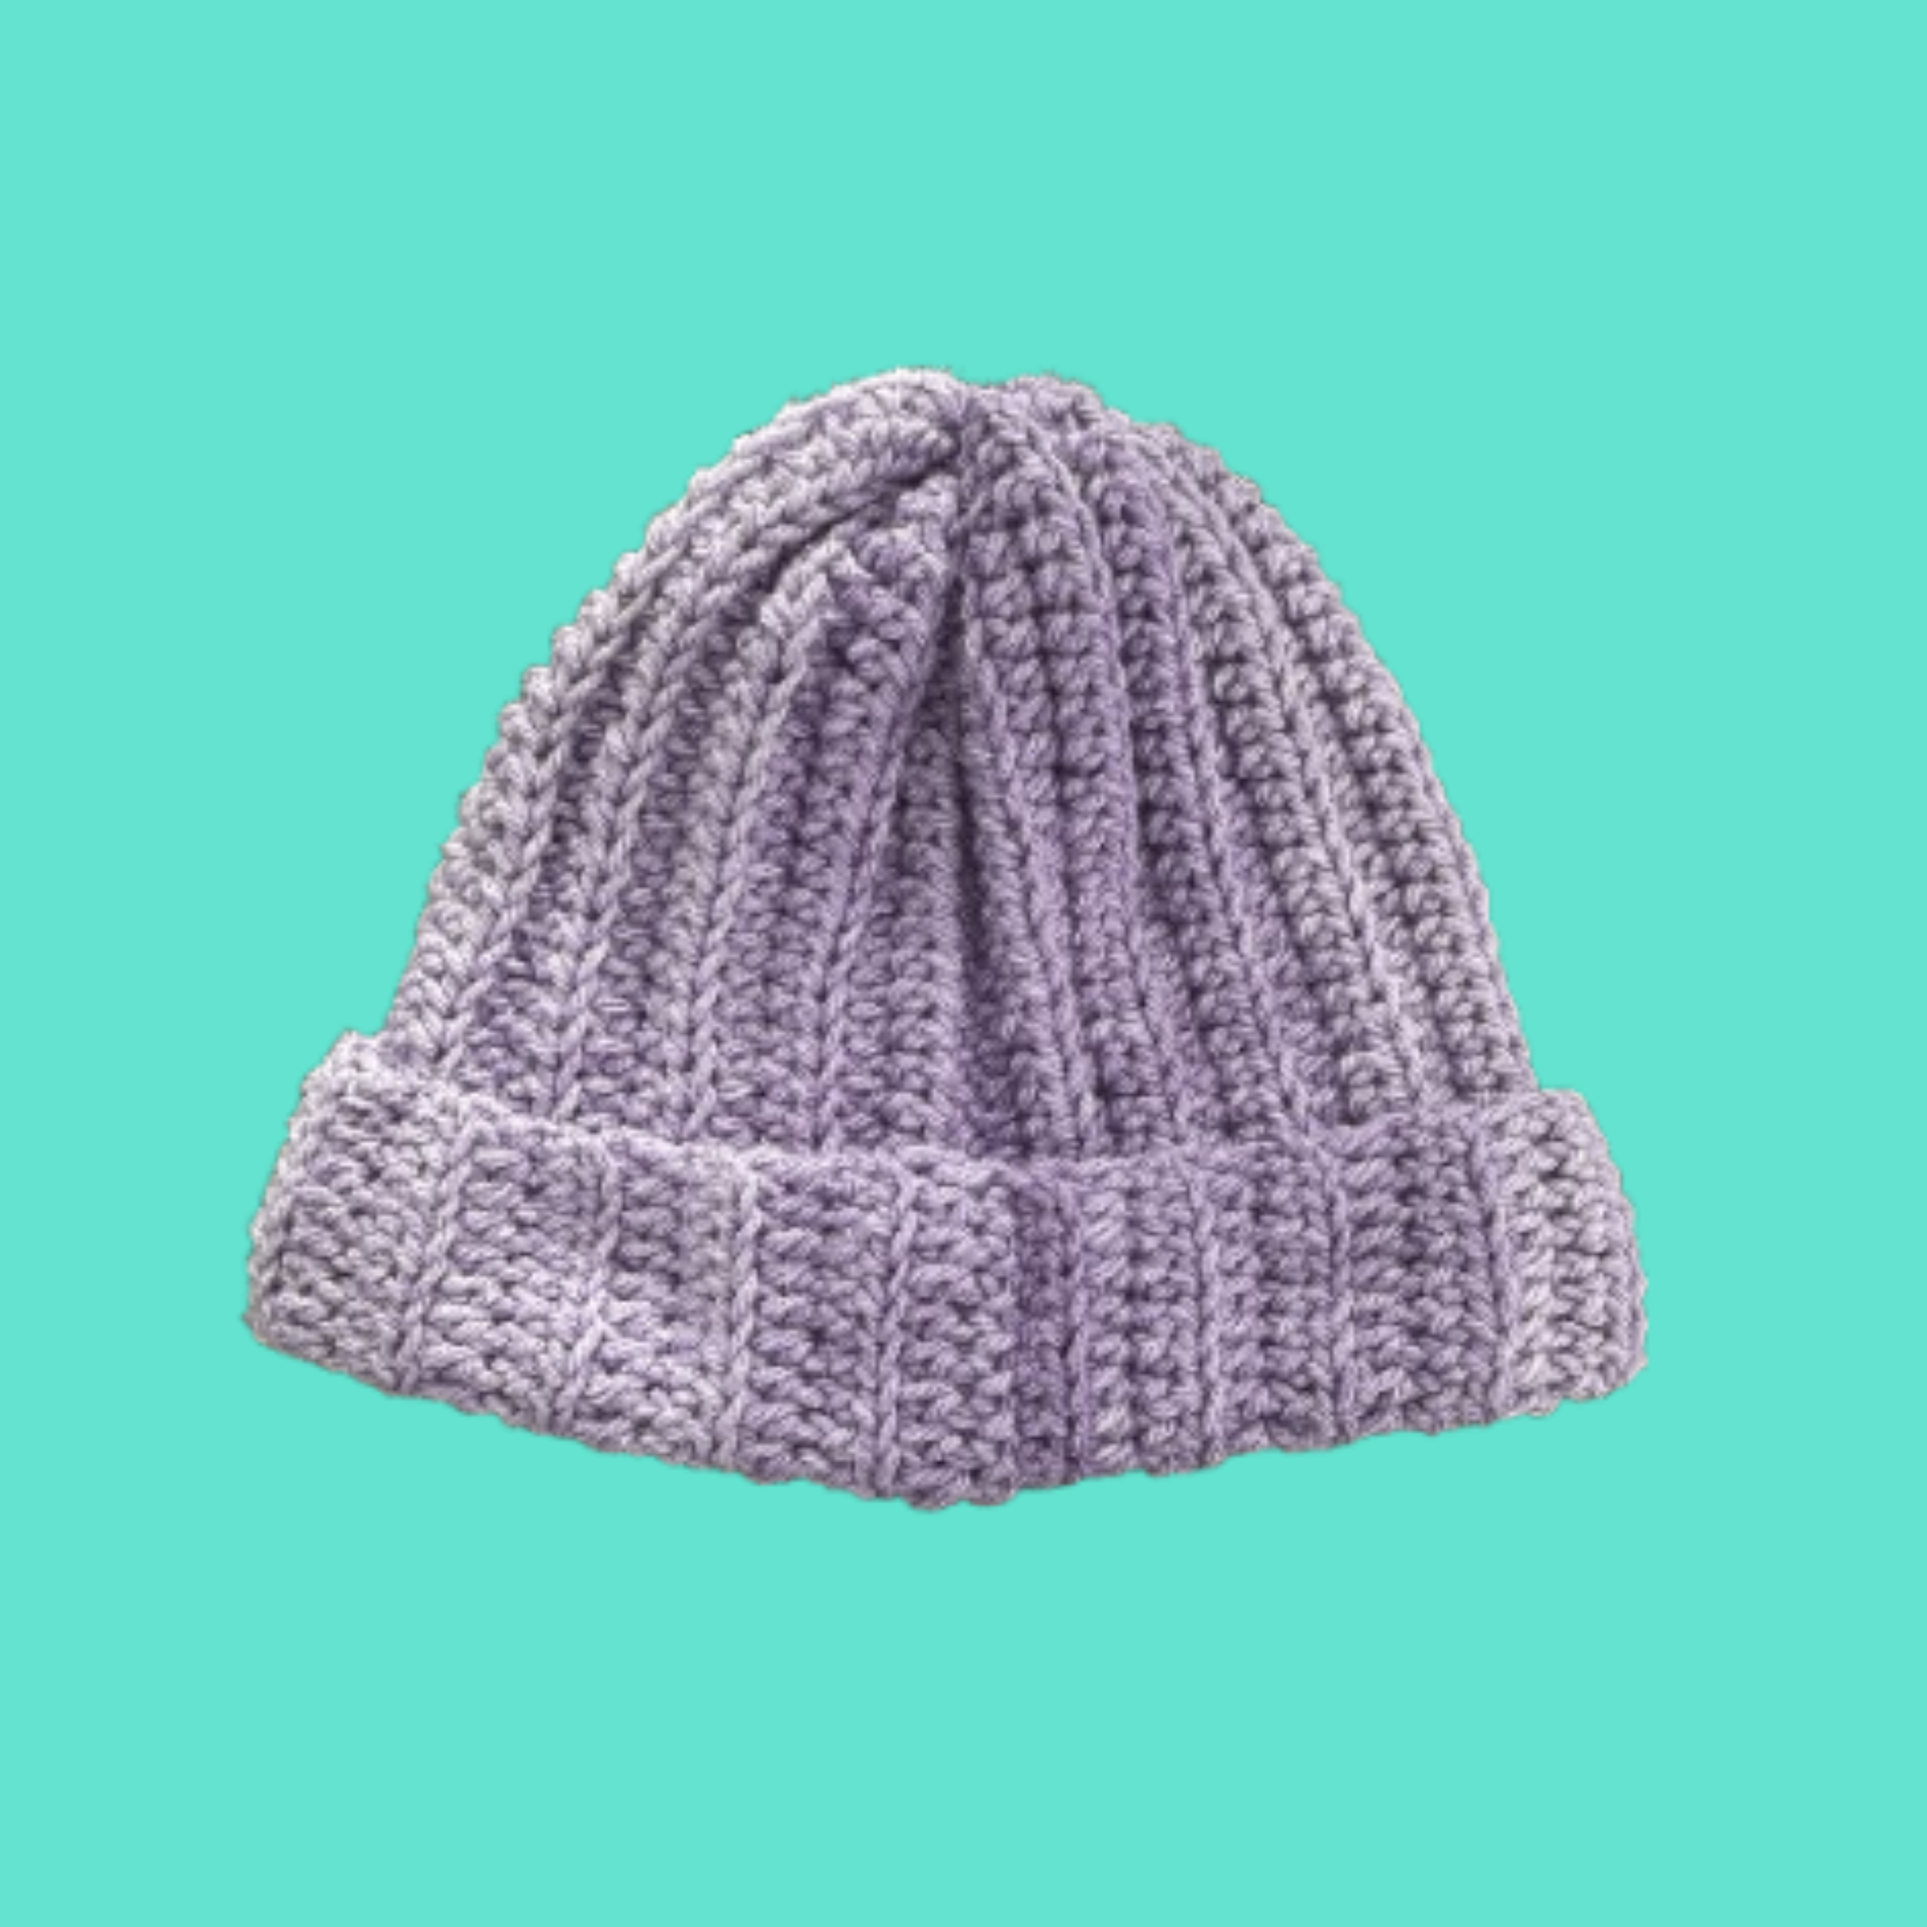
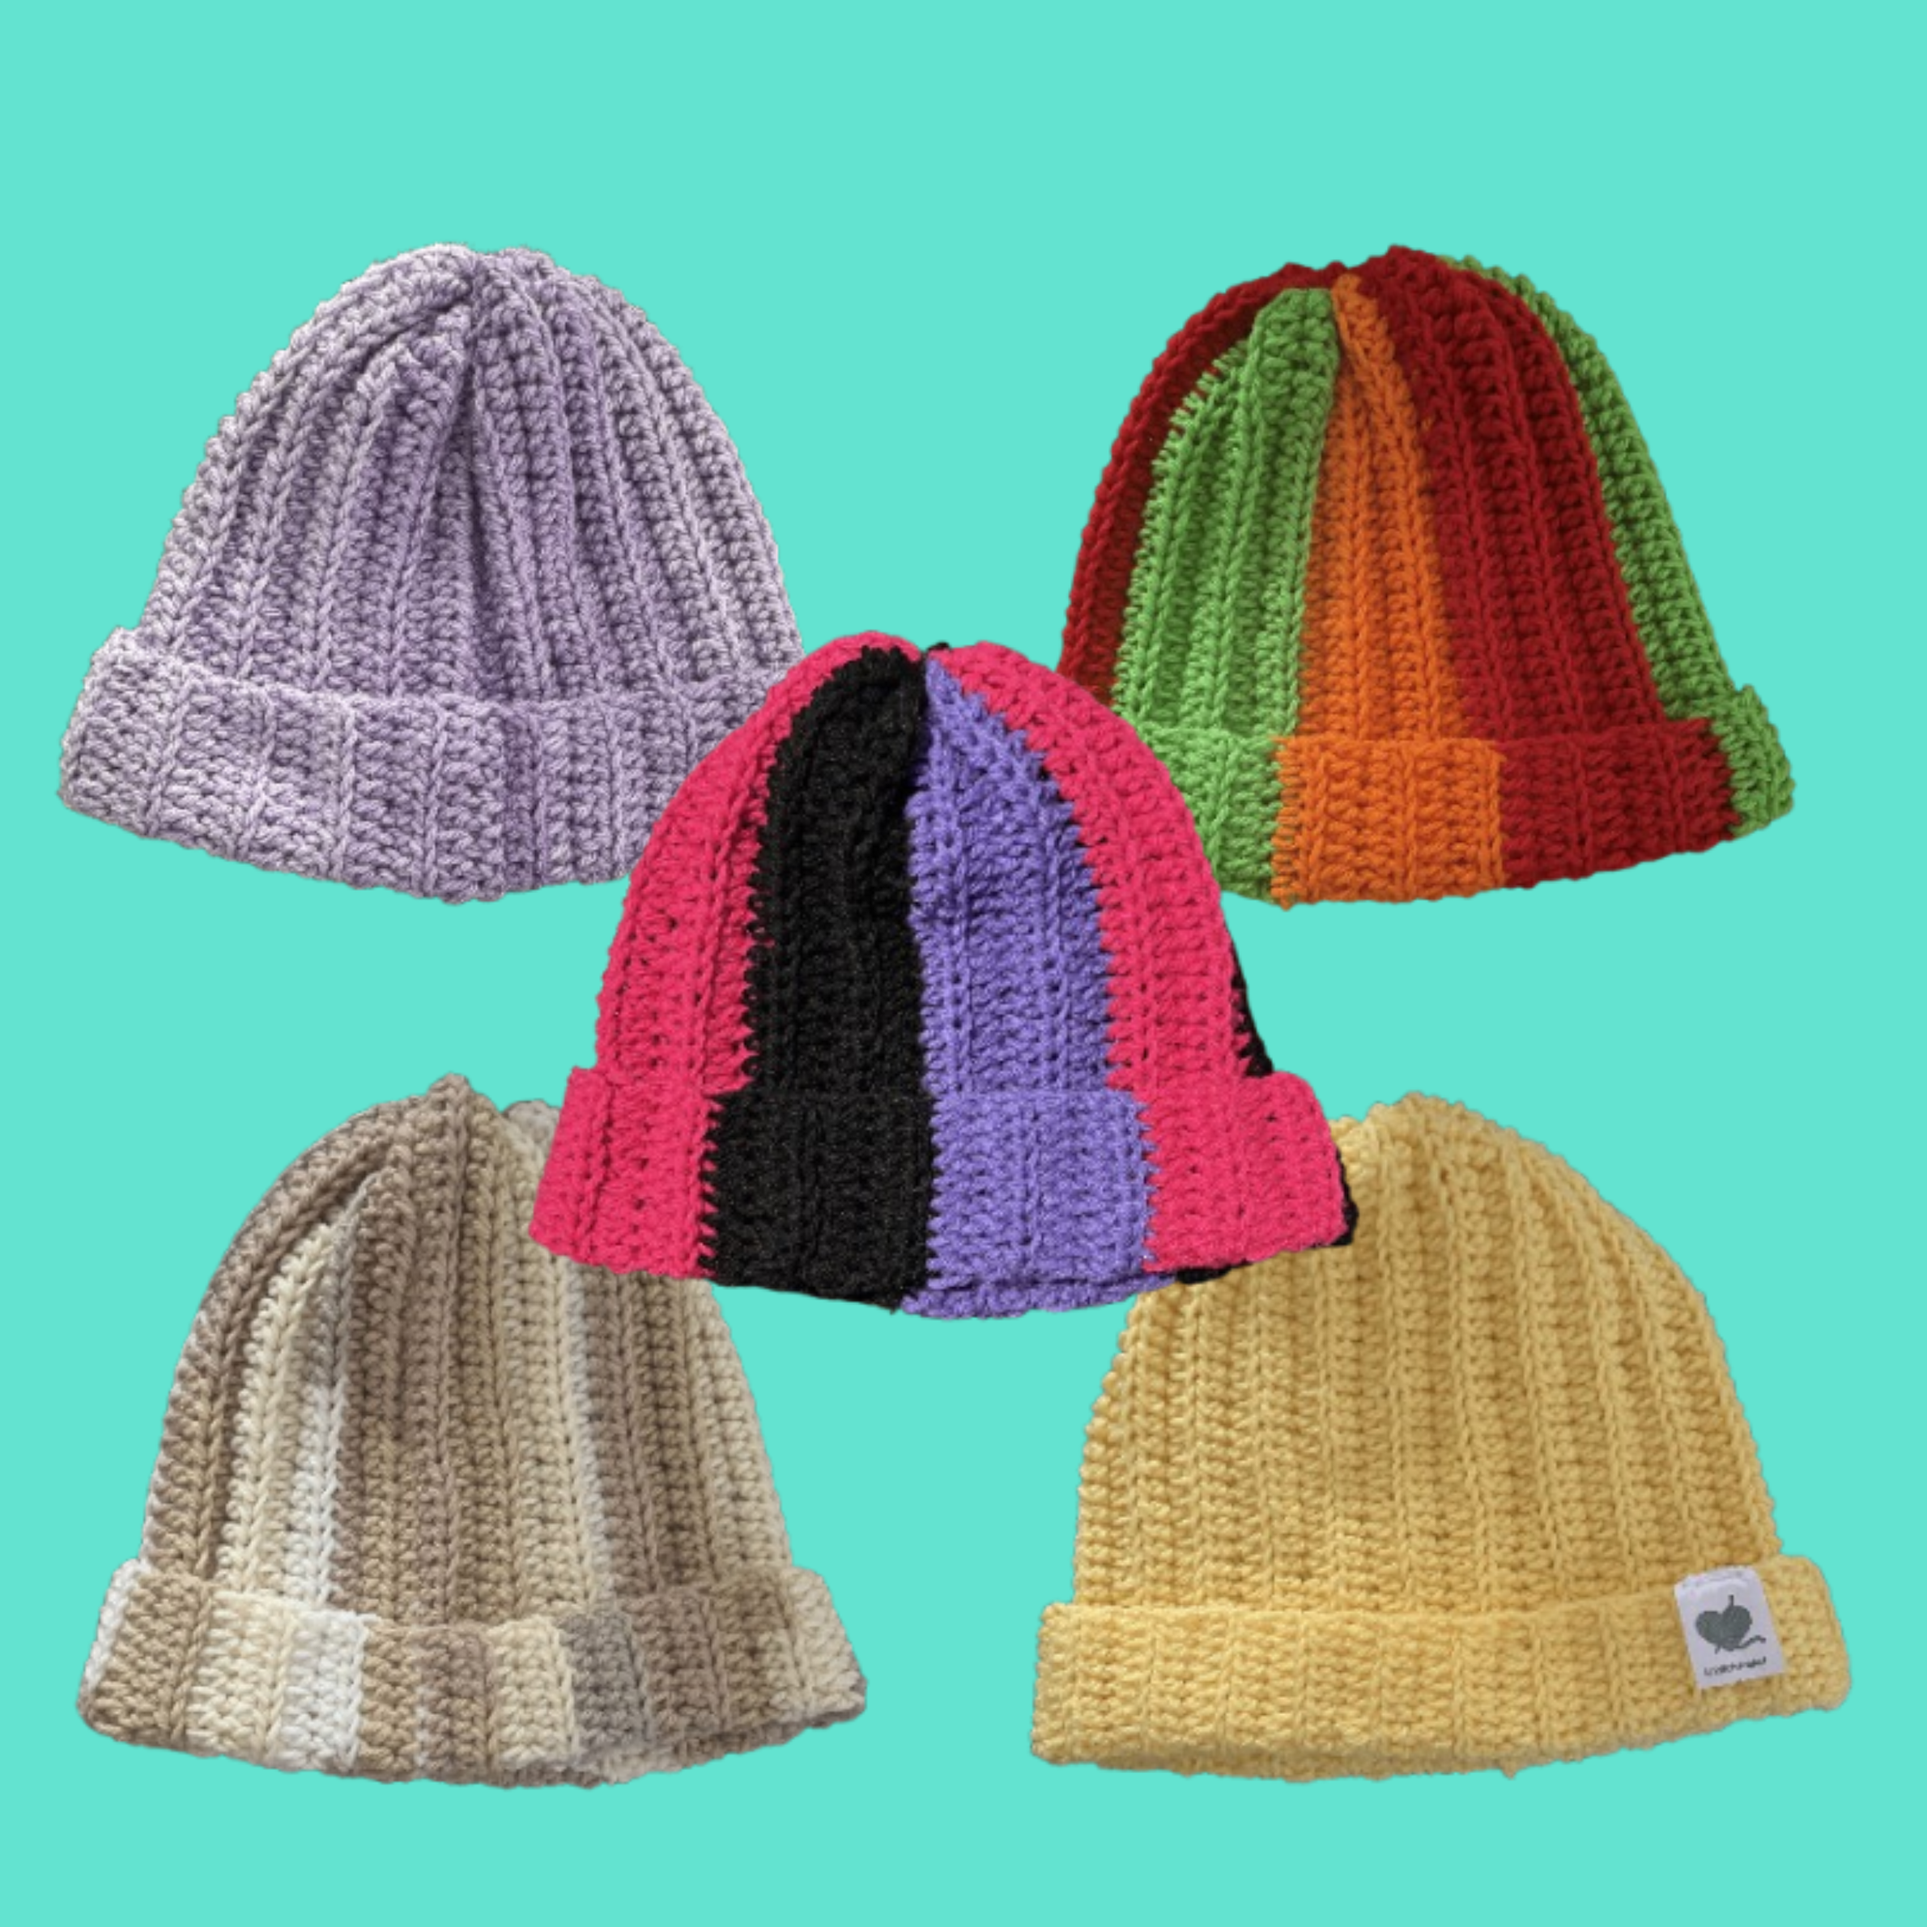
Changed project photo layout

diff --git a/project-archive.html b/project-archive.html
@@ -29,12 +29,6 @@
       <main>
         <section class="archive-grid">
           <article class="archive-card">
-            <img src="beanies/three.png" alt="Handmade crochet beanie" class="archive-image">
-            <h3>Beanie</h3>
-            <p>Donated to...</p>
-          </article>
-
-          <article class="archive-card">
             <img src="beanies/one.png" alt="Handmade crochet beanie" class="archive-image">
             <h3>Beanie</h3>
             <p>Donated to...</p>
@@ -42,48 +36,6 @@
 
           <article class="archive-card">
             <img src="beanies/two.png" alt="Handmade crochet beanie" class="archive-image">
-            <h3>Beanie</h3>
-            <p>Donated to...</p>
-          </article>
-
-          <article class="archive-card">
-            <img src="beanies/four.png" alt="Handmade crochet beanie" class="archive-image">
-            <h3>Beanie</h3>
-            <p>Donated to...</p>
-          </article>
-
-          <article class="archive-card">
-            <img src="beanies/five.png" alt="Handmade crochet beanie" class="archive-image">
-            <h3>Beanie</h3>
-            <p>Donated to...</p>
-          </article>
-
-          <article class="archive-card">
-            <img src="beanies/six.png" alt="Handmade crochet beanie" class="archive-image">
-            <h3>Beanie</h3>
-            <p>Donated to...</p>
-          </article>
-
-          <article class="archive-card">
-            <img src="beanies/seven.png" alt="Handmade crochet beanie" class="archive-image">
-            <h3>Beanie</h3>
-            <p>Donated to...</p>
-          </article>
-
-          <article class="archive-card">
-            <img src="beanies/eight.png" alt="Handmade crochet beanie" class="archive-image">
-            <h3>Beanie</h3>
-            <p>Donated to...</p>
-          </article>
-
-          <article class="archive-card">
-            <img src="beanies/nine.png" alt="Handmade crochet beanie" class="archive-image">
-            <h3>Beanie</h3>
-            <p>Donated to...</p>
-          </article>
-
-          <article class="archive-card">
-            <img src="beanies/ten.png" alt="Handmade crochet beanie" class="archive-image">
             <h3>Beanie</h3>
             <p>Donated to...</p>
           </article>

diff --git a/index.html b/index.html
@@ -52,7 +52,7 @@
         <section id="projects" class="projects-grid">
           <article class="project-card">
             <h3>Beanies</h3>
-            <img src="beanies/three.png" alt="Handmade crochet beanie" class="project-image">
+            <img src="beanies/main.png" alt="Handmade crochet beanie" class="project-image">
             <p>A crocheted collection of warm and cozy beanies.</p>
           </article>
 
